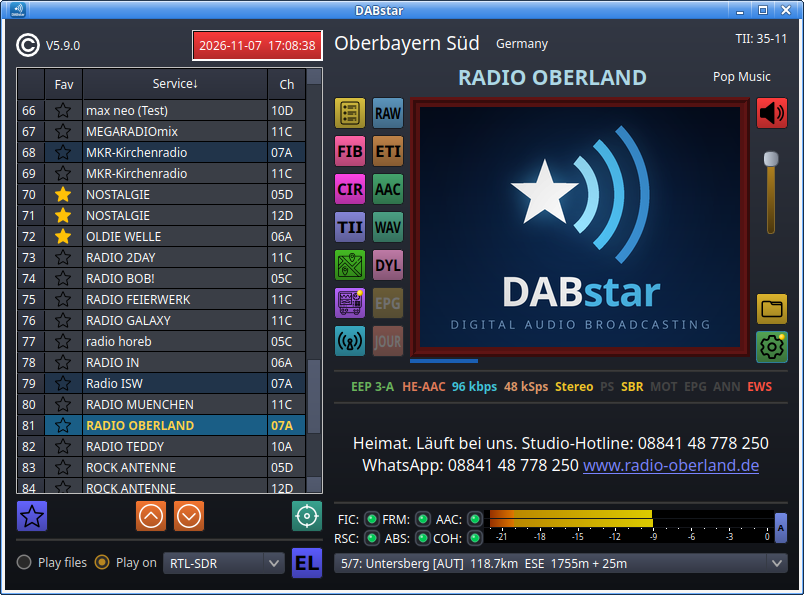
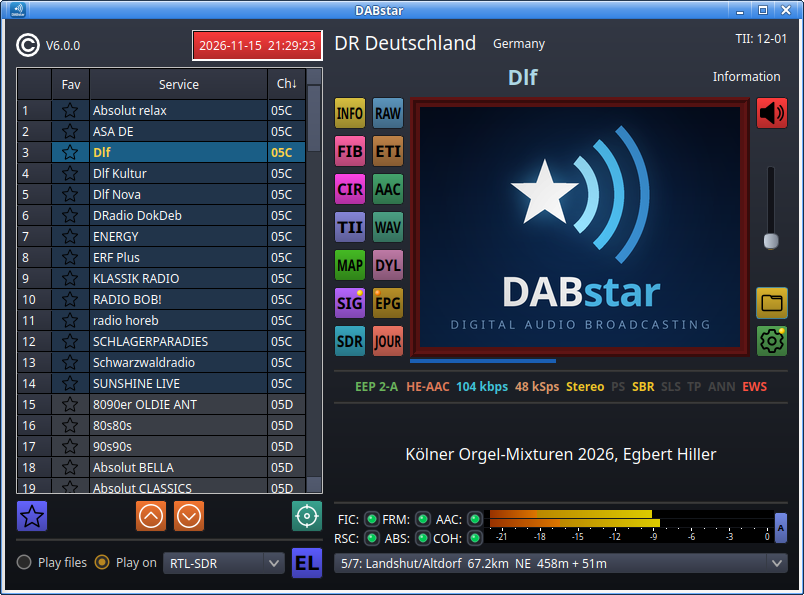
Document V6.0.0 features

diff --git a/README.md b/README.md
@@ -89,23 +89,17 @@ The status bar below the MOT picture shows:
 
 The tool buttons in the main window are labeled with short texts (move over them to get tooltip information):
 
-| Button | Function                                                                                                         |
-|--------|------------------------------------------------------------------------------------------------------------------|
-| EL     | Show the [Ensemble List](#ensemble-list) to scan live channels or sample files                                   |
-| RAW    | Save the raw input signal (IQ samples) to a file                                                                 |
-| ETI    | Save the ensemble content as ETI file (can be played again, see [ETI file playback](#eti-file-playback))         |
-| AAC    | Save the audio frames (AAC or MP2) to a file                                                                     |
-| WAV    | Save the audio output as uncompressed PCM file                                                                   |
-| DYL    | Save the dynamic label text to a file                                                                            |
-| EPG    | Open the programme guide (see [EPG](#epg-service-and-programme-information)), enabled if EPG data are available  |
-| JOUR   | Open the [Journaline](#journaline-window) window, enabled if Journaline data are received                       |
-| MAP    | Show the [map](#map-view-of-received-transmitters) of the received transmitters                                  |
-| FIB    | Show the [FIB content](#fib-content-window) list                                                                 |
-| TII    | Show the detailed [TII list](#tii-list-window-which-shows-received-transmitter-details) (needs the receiver coordinates in the configuration) |
-| CIR    | Show the [Channel Impulse Response](#the-prs-correlation-window-of-a-whole-dab-frame-cir) of a whole DAB frame  |
-| INFO   | Show the [details of the selected audio service](#audio-service-details-window-of-the-selected-service)          |
-| SIG    | Show the [spectrum, constellation and other DAB signal views](#scope-spectrum-correlation-statistic-window)     |
-| SDR    | Show the control widget of the [SDR device](#some-of-the-device-windows)                                         |
+| Left | Function                                                                                                | Right | Function                                                                                                    |
+|------|---------------------------------------------------------------------------------------------------------|-------|-------------------------------------------------------------------------------------------------------------|
+| INFO | Show the [details of the selected audio service](#audio-service-details-window-of-the-selected-service) | RAW   | Save the raw input signal (IQ samples) to a file                                                            |
+| FIB  | Show the [FIB content](#fib-content-window) list                                                        | ETI   | Save the ensemble content as ETI file (can be played again, see [ETI file playback](#eti-file-playback))    |
+| CIR  | Show the [Channel Impulse Response](#the-prs-correlation-window-of-a-whole-dab-frame-cir) of a whole DAB frame | AAC   | Save the audio frames (AAC or MP2) to a file                                                          |
+| TII  | Show the detailed [TII list](#tii-list-window-which-shows-received-transmitter-details) (needs the receiver coordinates in the configuration) | WAV   | Save the audio output as uncompressed PCM file           |
+| MAP  | Show the [map](#map-view-of-received-transmitters) of the received transmitters                         | DYL   | Save the dynamic label text to a file                                                                       |
+| SIG  | Show the [spectrum, constellation and other DAB signal views](#scope-spectrum-correlation-statistic-window) | EPG   | Open the programme guide (see [EPG](#epg-service-and-programme-information)), enabled if EPG data are available |
+| SDR  | Show the control widget of the [SDR device](#some-of-the-device-windows)                                | JOUR  | Open the [Journaline](#journaline-window) window, enabled if Journaline data are received                   |
+
+The **EL** button opens the [Ensemble List](#ensemble-list) to scan live channels or sample files.
 
 Buttons whose function is not usable in the current state (e.g. no running channel, a scan in progress or ETI file playback) are disabled.
 
@@ -205,7 +199,8 @@ Displays detected Transmitter Identification Information (TII), including main/s
 
 ![](res/for_readme/map.png)
 
-The map is shown in its own DABstar window (map tiles are loaded from OpenStreetMap and cached locally). 
+The map is rendered directly in its own DABstar window (map tiles are loaded from OpenStreetMap and cached locally).
+The former local web server (`http://localhost:8080`) and the need for an external web browser are gone.
 Drag to pan, use the mouse wheel or double-click to zoom, and click a transmitter to show its details.
 
 ### Application update dialog
